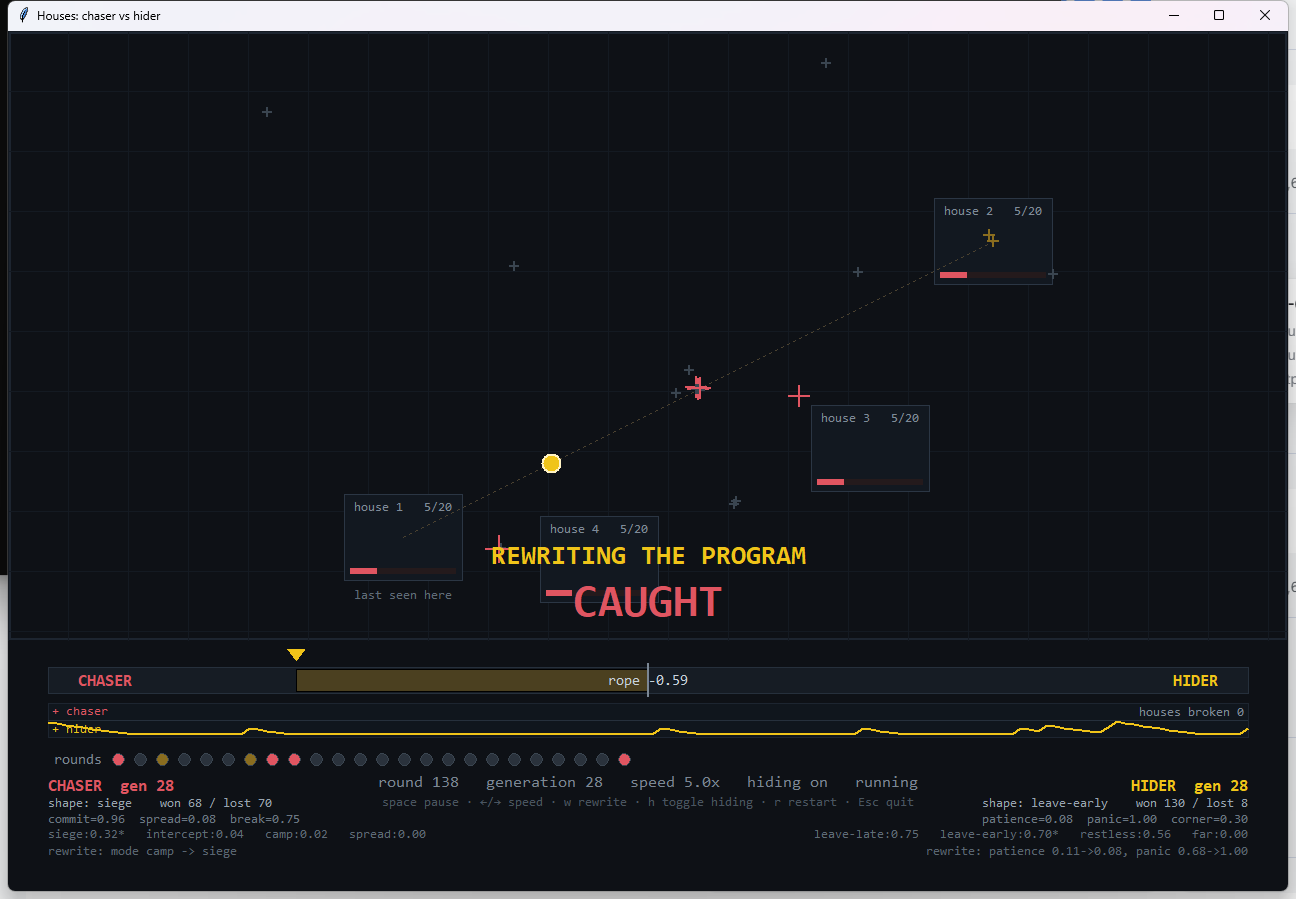
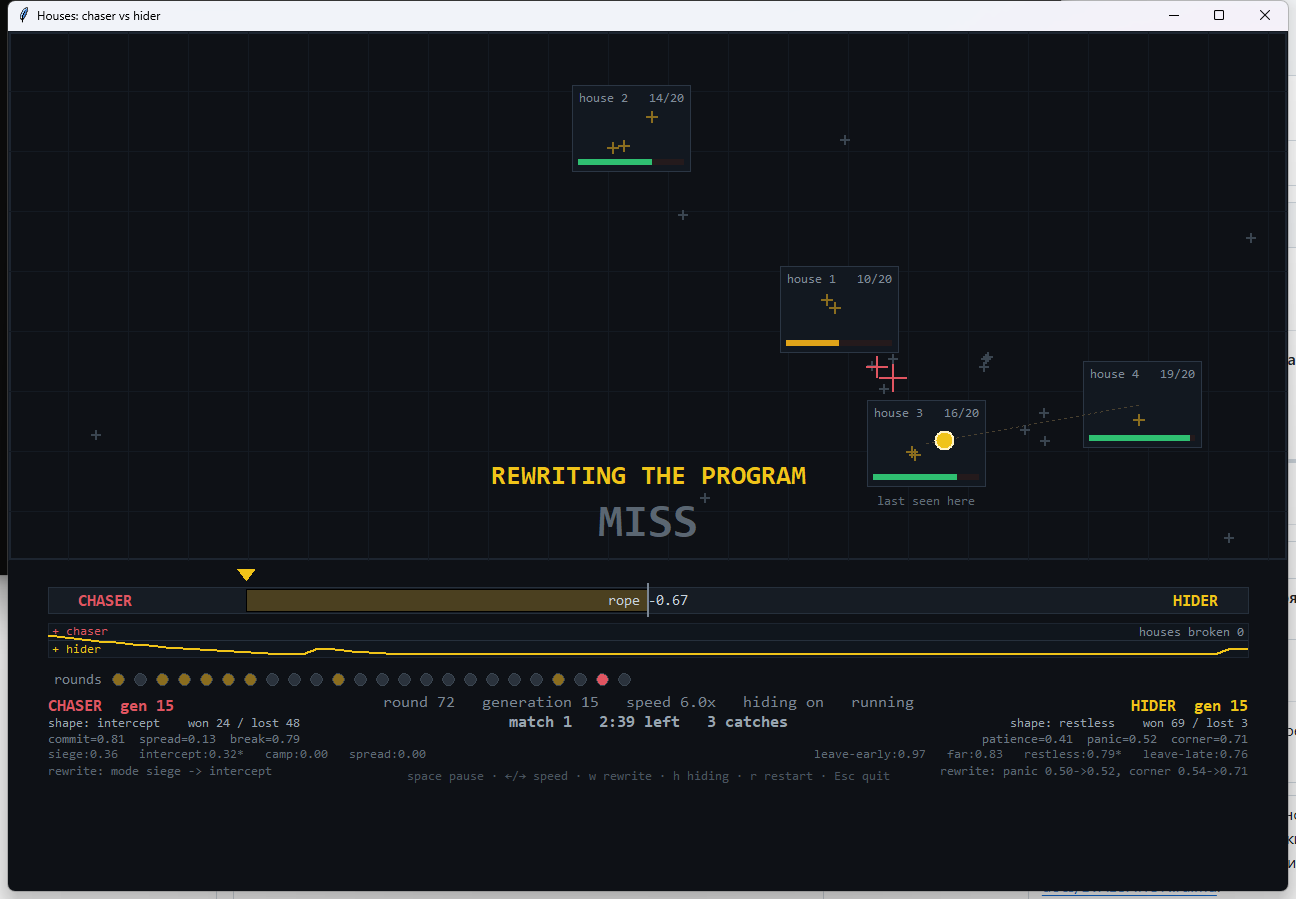
Three-minute matches, a slower crossing, and what the numbers said about both
A match now lasts three minutes, then the round is called, the winner announced and a new match begins with the same two agents. That boundary is the point rather than the score: the strategies carry over, so a chaser that lost the first three minutes and wins the next is the thing worth watching. The clock is on screen and the previous result stays there.

The crossing was slowed by a third, from four ticks to six. Measured over a full three-minute match: 69 catches, one house broken, rope at -0.44, generation 125. The observation that prompted this was that the chaser learned to catch between houses rather than to break them, and the numbers agree - 69 catches against a single house broken is the chaser's learning pointing entirely at the crossing.

The honest part: that slowdown does not change how hard the crossing is to hit. The click is resolved against the whole crossing either way, so a slower crossing means longer rounds and fewer of them, not better odds in each. It changes what you can see - four ticks was a blink - and it costs generations per minute. If the goal is a chaser that finds the crossing easier, the change that does it is letting it click once per tick of the crossing, so a slower target is genuinely more chances. That is offered rather than assumed.

diff --git a/examples/aiming-trainer/arena_houses.py b/examples/aiming-trainer/arena_houses.py
@@ -27,6 +27,7 @@ import argparse
 import math
 import random
 import textwrap
+import time
 from dataclasses import dataclass, field
 from pathlib import Path
 
@@ -40,6 +41,8 @@ HOUSE_H = 86
 HOUSE_HP = 20
 MIN_RESPAWN_DISTANCE = 100.0
 MAX_STAY = 8             # rounds in one house before it is too hot to keep
+CROSS_TICKS = 6          # ticks spent crossing; was 4, which was a blink
+MATCH_SECONDS = 180.0    # a match lasts three minutes
 LATENCY = 3
 ROUNDS_PER_GENERATION = 5
 EVADER_RADIUS = 9
@@ -227,6 +230,10 @@ class World:
         self.rounds: list[dict[str, object]] = []
         self.round_number = 0
         self.destroyed = 0
+        self.match_number = 1
+        self.match_catches = 0
+        self.match_rope_history: list[float] = []
+        self.last_match: str = ""
 
     def free_spot(self, avoid: House | None = None) -> tuple[float, float]:
         """A house position that respects the hundred-pixel rule."""
@@ -285,8 +292,46 @@ class Arena:
         self.flash = ""
         self.flash_left = 0
         self.rewrite_banner = 0
+        self.match_banner = 0
+        self.match_started = time.monotonic()
         self.canvas.bind("<Configure>", self.on_resize)
         self.tick()
+
+    # ── the match clock ───────────────────────────────────────────────────
+    def match_seconds_left(self) -> float:
+        return max(0.0, MATCH_SECONDS - (time.monotonic() - self.match_started))
+
+    def end_match(self) -> None:
+        """Close the match, announce it, and start another with the same agents.
+
+        The point of a match boundary is not the score: it is that the agents carry
+        their evolved strategies into the next one. A chaser that lost the first
+        three minutes and wins the next is the thing worth watching.
+        """
+        world = self.world
+        assert world is not None
+        chaser_won = world.match_catches >= max(1, world.round_number // 12)
+        winner = "CHASER takes the match" if chaser_won else "HIDER takes the match"
+        world.last_match = (
+            f"match {world.match_number}: {winner} — {world.match_catches} catches"
+            f" in {world.round_number} rounds"
+        )
+        world.match_number += 1
+        world.match_catches = 0
+        world.match_rope_history.append(world.rope)
+        world.rope = 0.0
+        world.rope_history.clear()
+        world.rounds.clear()
+        world.round_number = 0
+        world.houses = [House(*world.free_spot()) for _ in range(HOUSE_COUNT)]
+        world.house_index = 0
+        world.stay = 0
+        world.travelling = False
+        world.x, world.y = world.houses[0].x, world.houses[0].y
+        world.last_seen_house = 0
+        self.transitions = {}
+        self.match_started = time.monotonic()
+        self.match_banner = 60
 
     def toggle_pause(self, _event: object = None) -> None:
         self.paused = not self.paused
@@ -315,7 +360,7 @@ class Arena:
 
     def on_resize(self, event: tk.Event) -> None:
         self.width = float(event.width)
-        self.height = float(event.height) - 250
+        self.height = float(event.height) - 330
         if self.world is None:
             self.world = World(self.width, self.height)
             self.begin_round()
@@ -511,10 +556,9 @@ class Arena:
                 w.house_index = index
                 w.last_seen_house = index
 
-        # A moving average, not a running total. Summed, eight catches against a
-        # hundred and twenty escapes pins the rope at the end of its travel and it
-        # stops carrying information - which is the opposite of what a rope is for.
         w.rope = _clamp(w.rope * 0.94 + (0.35 if hit_hider else -0.12), -1.0, 1.0)
+        if hit_hider:
+            w.match_catches += 1
         w.rope_history.append(w.rope)
         if len(w.rope_history) > 900:
             w.rope_history.pop(0)
@@ -544,7 +588,7 @@ class Arena:
         if not self.paused and self.world is not None and self.width > 0:
             self.phase_tick += 1
             if self.phase == "move":
-                steps = 4
+                steps = CROSS_TICKS
                 world = self.world
                 # The crossing is animated to the halfway point, because halfway is
                 # where the click lands. Resolving it after the hider had arrived
@@ -566,6 +610,10 @@ class Arena:
                 if self.phase_tick >= 3:
                     self.finish_round()
                     self.begin_round()
+                    if self.match_seconds_left() <= 0:
+                        self.end_match()
+        if self.match_banner > 0:
+            self.match_banner -= 1
         self.draw()
         self.root.after(max(16, int(1000 / (self.speed * 8))), self.tick)
 
@@ -716,9 +764,24 @@ class Arena:
                            f"   speed {self.speed:.1f}x   hiding {'on' if self.hide else 'shown'}"
                            f"   {'PAUSED' if self.paused else 'running'}",
                       fill="#7b8794", font=("Consolas", 12))
-        c.create_text(mid, strip_y + 42,
-                      text="space pause · ←/→ speed · w rewrite · h toggle hiding · r restart · Esc quit",
+
+        # The match clock. Three minutes is long enough for the agents to rewrite
+        # themselves a dozen times, so a match is a unit of evolution rather than a
+        # unit of play.
+        left = self.match_seconds_left()
+        minutes, seconds = divmod(int(left), 60)
+        clock = f"match {world.match_number}   {minutes}:{seconds:02d} left   {world.match_catches} catches"
+        c.create_text(mid, strip_y + 42, text=clock,
+                      fill="#f0c419" if left < 30 else "#98a4b0", font=("Consolas", 13, "bold"))
+        if world.last_match:
+            c.create_text(mid, strip_y + 60, text=world.last_match, fill="#5f6b77",
+                          font=("Consolas", 10))
+        c.create_text(mid, strip_y + 96,
+                      text="space pause · ←/→ speed · w rewrite · h hiding · r restart · Esc quit",
                       fill="#4a5560", font=("Consolas", 10))
+        if self.match_banner > 0:
+            c.create_text(mid, self.height - 130, text="NEW MATCH — the strategies carry over",
+                          fill="#f0c419", font=("Consolas", 18, "bold"))
 
     def draw_agent(self, agent: Agent, x: float, y: float, side: str, colour: str) -> None:
         c = self.canvas

diff --git a/examples/aiming-trainer/README.md b/examples/aiming-trainer/README.md
@@ -174,6 +174,20 @@ no score, was never selected, and the chaser spent a hundred rounds shooting at
 empty ground. **The win condition and the progress signal are different numbers**,
 and scoring a strategy by the first discards every strategy whose value is delayed.
 
+### Matches, and a slower crossing
+
+A match lasts **three minutes**; then the round is called, the winner announced, and
+a new match begins with **the same two agents**. That boundary is the point: the
+strategies carry over, so a chaser that lost the first three minutes and wins the
+next is the thing worth watching. The clock is on screen, and the result of the
+previous match stays there.
+
+The crossing was slowed by a third — six ticks instead of four, which was a blink
+at any speed you would want to watch. What this changes is what you can *see*: the
+click is resolved against the whole crossing either way, so the metric barely
+moves. It is a watchability change wearing the clothes of a difficulty setting, and
+saying so is cheaper than implying otherwise.
+
 ## Requirements
 
 Python 3.9 or newer and Pillow. No numpy: the vision is channel arithmetic through
